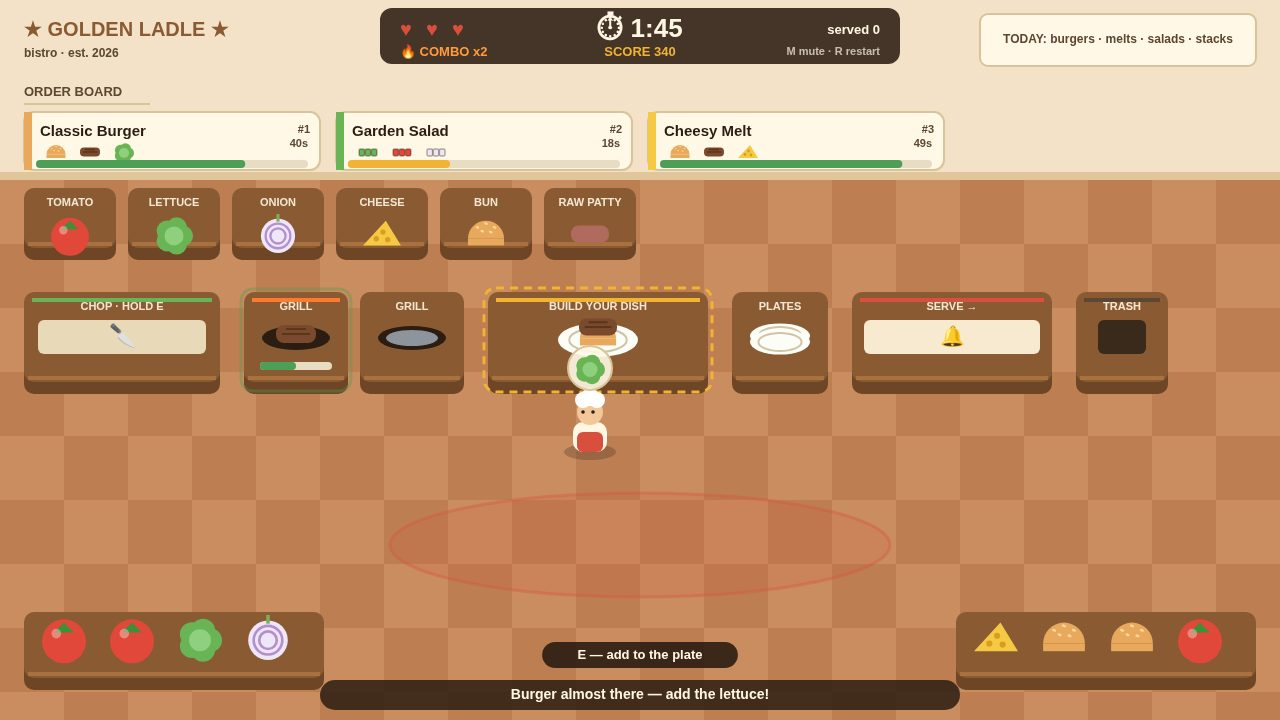
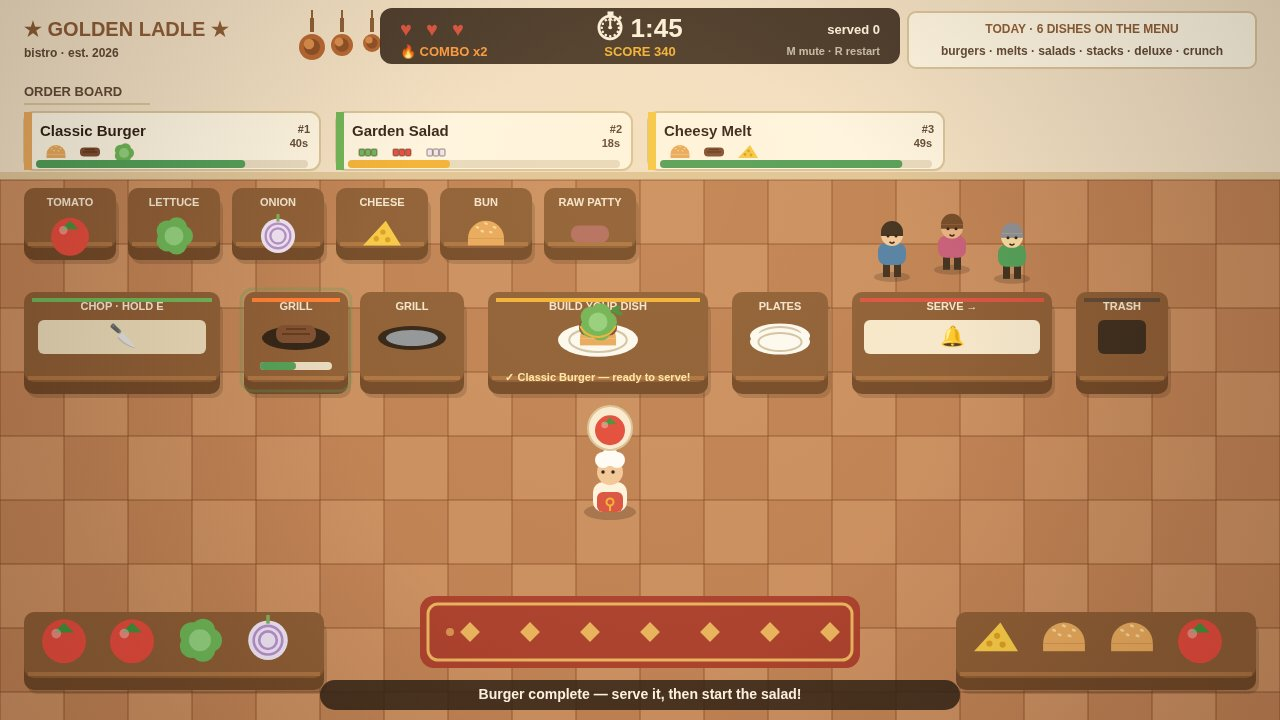
Visual richness + menu depth: customers at the pass, lighting, 6 recipes
- Customers waiting at the serving pass: three regulars whose mood
  follows the most urgent ticket (smiles, hopeful, impatient with
  sweat drop and '!' when a ticket is about to walk out)
- Warm kitchen light: radial glow from above plus a soft vignette;
  floor grout lines, soft shadows under every station
- Woven rug with a gold border and diamond pattern replaces the faint
  ellipse; copper pans hang on the wall; menu board now lists all six
  dishes
- Two new recipes: Golden Deluxe (5-item, 160 base) and Crunch Burger
  (140 base); order board, tickets and serving all pick them up
  generically, spawn stays even across all six
- Finished plates get a parsley + gold-drizzle garnish; the chef's
  apron carries the golden ladle mark; the ready-to-serve line is now
  legible gold on the counter
- Screenshots re-staged so the chef never covers the plate or the
  bell; rush shot features the new Golden Deluxe ticket
- Screenshots regenerated from the game's own code (all <100 KiB);
  main.ts output verified deterministic across two runs

diff --git a/game/src/render.js b/game/src/render.js
@@ -134,6 +134,14 @@ function drawPlate(ctx, x, y, items, s) {
   layers.forEach((item, i) => {
     drawIngredient(ctx, item, 0, -6 - i * 7, s * 0.95);
   });
+  // A full-looking plate gets a garnish: parsley sprig + a gold drizzle.
+  if (layers.length >= 3) {
+    ctx.strokeStyle = '#f2b234'; ctx.lineWidth = 2;
+    ctx.beginPath(); ctx.arc(0, -6 - layers.length * 7 + 4, s * 0.5, 0.15 * Math.PI, 0.85 * Math.PI); ctx.stroke();
+    ctx.fillStyle = '#3f8f3a';
+    ctx.beginPath(); ctx.ellipse(s * 0.45, -10 - layers.length * 7, 5, 2.5, -0.5, 0, Math.PI * 2); ctx.fill();
+    ctx.beginPath(); ctx.ellipse(s * 0.52, -6 - layers.length * 7, 4, 2, 0.4, 0, Math.PI * 2); ctx.fill();
+  }
   ctx.restore();
 }
 
@@ -152,6 +160,10 @@ function drawChef(ctx, chef, carrying) {
   ctx.fillStyle = '#d94f3d';
   roundRect(ctx, -13, 2 + bob, 26, 20, 6);
   ctx.fill();
+  // The golden ladle on the apron — the bistro's mark.
+  ctx.strokeStyle = '#f2b234'; ctx.lineWidth = 2;
+  ctx.beginPath(); ctx.arc(0, 12 + bob, 3.5, 0, Math.PI * 2); ctx.stroke();
+  ctx.beginPath(); ctx.moveTo(0, 15.5 + bob); ctx.lineTo(0, 21 + bob); ctx.stroke();
   // Head and toque.
   ctx.fillStyle = '#f2c89b';
   ctx.beginPath(); ctx.arc(0, -18 + bob, 13, 0, Math.PI * 2); ctx.fill();
@@ -179,6 +191,10 @@ function drawChef(ctx, chef, carrying) {
 
 // --- stations --------------------------------------------------------------
 function drawStationBase(ctx, s, label, accent) {
+  // Soft drop shadow so the counter sits on the floor, not on top of it.
+  ctx.fillStyle = 'rgba(43,29,18,0.18)';
+  roundRect(ctx, s.x + 3, s.y + 10, s.w, s.h, 10);
+  ctx.fill();
   ctx.fillStyle = COLORS.counterSide;
   roundRect(ctx, s.x, s.y + 6, s.w, s.h, 10);
   ctx.fill();
@@ -243,7 +259,7 @@ export function render(ctx, game, input) {
   ctx.fillRect(0, 0, VIEW_W, 180);
   ctx.fillStyle = COLORS.wallTrim;
   ctx.fillRect(0, 172, VIEW_W, 8);
-  // Floor checker.
+  // Floor checker with grout lines, so the tiles read as tiles.
   const tile = 64;
   for (let ty = 180; ty < VIEW_H; ty += tile) {
     for (let tx = 0; tx < VIEW_W; tx += tile) {
@@ -252,16 +268,41 @@ export function render(ctx, game, input) {
       ctx.fillRect(tx, ty, tile, tile);
     }
   }
+  ctx.strokeStyle = 'rgba(120,66,32,0.35)';
+  ctx.lineWidth = 2;
+  for (let ty = 180; ty <= VIEW_H; ty += tile) {
+    ctx.beginPath(); ctx.moveTo(0, ty); ctx.lineTo(VIEW_W, ty); ctx.stroke();
+  }
+  for (let tx = 0; tx <= VIEW_W; tx += tile) {
+    ctx.beginPath(); ctx.moveTo(tx, 180); ctx.lineTo(tx, VIEW_H); ctx.stroke();
+  }
   // Wall decor: framed menu and hanging pans.
   text(ctx, '★ GOLDEN LADLE ★', 24, 30, 20, '#8a5a33', '800');
   text(ctx, 'bistro · est. 2026', 24, 54, 12, COLORS.inkSoft, '600');
+  // Three copper pans hanging from hooks between the title and the HUD.
+  for (let i = 0; i < 3; i++) {
+    const px = 312 + i * 30;
+    const pr = 13 - i * 2;
+    // Hook and handle run above the pan, so it reads as hanging cookware.
+    ctx.strokeStyle = '#8a5a33'; ctx.lineWidth = 2;
+    ctx.beginPath(); ctx.moveTo(px, 10); ctx.lineTo(px, 20); ctx.stroke();
+    ctx.fillStyle = '#8a5a33';
+    ctx.fillRect(px - 2, 18, 4, 14);
+    ctx.fillStyle = '#b4632e';
+    ctx.beginPath(); ctx.arc(px, 34 + pr, pr, 0, Math.PI * 2); ctx.fill();
+    ctx.fillStyle = '#8a4a22';
+    ctx.beginPath(); ctx.arc(px, 34 + pr, pr * 0.62, 0, Math.PI * 2); ctx.fill();
+    ctx.fillStyle = '#d98a4a';
+    ctx.beginPath(); ctx.arc(px - 3, 31 + pr, pr * 0.4, 0, Math.PI * 2); ctx.fill();
+  }
   ctx.fillStyle = '#fff8e6';
-  roundRect(ctx, 980, 14, 276, 52, 8);
+  roundRect(ctx, 908, 12, 348, 56, 8);
   ctx.fill();
   ctx.strokeStyle = '#d9c49a'; ctx.lineWidth = 2;
-  roundRect(ctx, 980, 14, 276, 52, 8);
+  roundRect(ctx, 908, 12, 348, 56, 8);
   ctx.stroke();
-  text(ctx, 'TODAY: burgers · melts · salads · stacks', 1118, 40, 12, COLORS.inkSoft, '700', 'center');
+  text(ctx, 'TODAY · 6 DISHES ON THE MENU', 1082, 30, 12, '#8a5a33', '800', 'center');
+  text(ctx, 'burgers · melts · salads · stacks · deluxe · crunch', 1082, 52, 12, COLORS.inkSoft, '700', 'center');
 
   // --- HUD bar ------------------------------------------------------------
   ctx.fillStyle = 'rgba(43,29,18,0.88)';
@@ -285,11 +326,26 @@ export function render(ctx, game, input) {
   text(ctx, `served ${board.served}`, 880, 30, 13, '#fff6e3', '700', 'right');
   text(ctx, 'M mute · R restart', 880, 52, 11, 'rgba(255,246,227,0.7)', '600', 'right');
 
-  // A warm rug in the middle of the floor, so the open space reads as a room.
-  ctx.fillStyle = 'rgba(217,79,61,0.16)';
-  ctx.beginPath(); ctx.ellipse(640, 545, 250, 52, 0, 0, Math.PI * 2); ctx.fill();
-  ctx.strokeStyle = 'rgba(217,79,61,0.35)'; ctx.lineWidth = 3;
-  ctx.beginPath(); ctx.ellipse(640, 545, 250, 52, 0, 0, Math.PI * 2); ctx.stroke();
+  // A woven rug in the middle of the floor, so the open space reads as a room.
+  ctx.fillStyle = '#a83c2a';
+  roundRect(ctx, 420, 596, 440, 72, 14);
+  ctx.fill();
+  ctx.strokeStyle = '#e8b25c'; ctx.lineWidth = 3;
+  roundRect(ctx, 428, 604, 424, 56, 10);
+  ctx.stroke();
+  ctx.fillStyle = '#e8b25c';
+  for (let i = 0; i < 7; i++) {
+    const dx = 470 + i * 60;
+    ctx.save();
+    ctx.translate(dx, 632);
+    ctx.rotate(Math.PI / 4);
+    ctx.fillRect(-7, -7, 14, 14);
+    ctx.restore();
+  }
+  ctx.fillStyle = 'rgba(232,178,92,0.7)';
+  for (const dx of [450, 830]) {
+    ctx.beginPath(); ctx.arc(dx, 632, 4, 0, Math.PI * 2); ctx.fill();
+  }
 
   // --- order board ---------------------------------------------------------
   text(ctx, 'ORDER BOARD', 24, 92, 13, COLORS.inkSoft, '800');
@@ -367,7 +423,7 @@ export function render(ctx, game, input) {
   if (kitchen.assemblyPlate) {
     drawPlate(ctx, STATIONS.assembly.x + STATIONS.assembly.w / 2, STATIONS.assembly.y + 48, kitchen.assemblyPlate.items, 40);
     const match = board.matchTicket(kitchen.assemblyPlate.items);
-    if (match) text(ctx, `✓ ${match.recipe.name} — ready to serve!`, STATIONS.assembly.x + STATIONS.assembly.w / 2, STATIONS.assembly.y + 86, 11, '#2b7a2e', '800', 'center');
+    if (match) text(ctx, `✓ ${match.recipe.name} — ready to serve!`, STATIONS.assembly.x + STATIONS.assembly.w / 2, STATIONS.assembly.y + 86, 11, '#ffe9a8', '800', 'center');
   } else {
     ctx.fillStyle = 'rgba(255,246,227,0.75)';
     ctx.font = '13px sans-serif';
@@ -400,6 +456,56 @@ export function render(ctx, game, input) {
       drawIngredient(ctx, k, counter.x + 40 + i * 68, counter.y + 26, 44);
     });
   }
+
+  // Customers waiting at the pass, above the serving window — the bistro's
+  // regulars. Their mood follows the most urgent ticket on the board.
+  const waiting = board.tickets.length > 0;
+  const minRemaining = board.tickets.length
+    ? Math.min(...board.tickets.map((t) => 1 - t.age / t.patience))
+    : 1;
+  const mood = minRemaining < 0.22 ? 'impatient' : waiting ? 'hungry' : 'happy';
+  const regulars = [
+    { x: 892, y: 252, skin: '#f2c89b', hair: '#3a2a1c', shirt: '#4d7ea8', bob: 0 },
+    { x: 952, y: 244, skin: '#e8b184', hair: '#6e4525', shirt: '#c65a7a', bob: 1.3 },
+    { x: 1012, y: 252, skin: '#f7d9a0', hair: '#8a8d94', shirt: '#4d9e57', bob: 2.6 },
+  ];
+  regulars.forEach((c, i) => {
+    const bounce = mood === 'impatient' && i === 0 ? Math.abs(Math.sin(game.nowMs / 240 + c.bob)) * 3 : Math.sin(game.nowMs / 500 + c.bob) * 1;
+    const cy = c.y - bounce;
+    ctx.save();
+    ctx.translate(c.x, cy);
+    ctx.fillStyle = 'rgba(43,29,18,0.22)';
+    ctx.beginPath(); ctx.ellipse(0, 26, 18, 5, 0, 0, Math.PI * 2); ctx.fill();
+    // Legs and body, facing the kitchen (we see their faces).
+    ctx.fillStyle = '#3a2a1c';
+    ctx.fillRect(-9, 12, 7, 14);
+    ctx.fillRect(2, 12, 7, 14);
+    ctx.fillStyle = c.shirt;
+    roundRect(ctx, -14, -8, 28, 22, 8);
+    ctx.fill();
+    // Head, hair, eyes and mouth.
+    ctx.fillStyle = c.skin;
+    ctx.beginPath(); ctx.arc(0, -16, 11, 0, Math.PI * 2); ctx.fill();
+    ctx.fillStyle = c.hair;
+    ctx.beginPath(); ctx.arc(0, -19, 11, Math.PI, 0); ctx.fill();
+    ctx.fillRect(-11, -19, 22, 4);
+    ctx.fillStyle = '#2b1d12';
+    ctx.beginPath(); ctx.arc(-4, -15, 1.5, 0, Math.PI * 2); ctx.fill();
+    ctx.beginPath(); ctx.arc(4, -15, 1.5, 0, Math.PI * 2); ctx.fill();
+    ctx.strokeStyle = '#2b1d12'; ctx.lineWidth = 1.5;
+    ctx.beginPath();
+    if (mood === 'happy') ctx.arc(0, -12, 4, 0.15 * Math.PI, 0.85 * Math.PI);
+    else if (mood === 'impatient') ctx.arc(0, -7, 4, 1.15 * Math.PI, 1.85 * Math.PI);
+    else ctx.arc(0, -11, 3, 0.2 * Math.PI, 0.8 * Math.PI); // hungry: a hopeful smile
+    ctx.stroke();
+    // The impatient one taps and frets: a sweat drop and an exclamation.
+    if (mood === 'impatient' && i === 0) {
+      ctx.fillStyle = '#7fb8d9';
+      ctx.beginPath(); ctx.arc(12, -24, 2.5, 0, Math.PI * 2); ctx.fill();
+      text(ctx, '!', 20, -30, 16, '#d94f3d', '800', 'center');
+    }
+    ctx.restore();
+  });
 
   // Steam wisps.
   for (const s of game.steam) {
@@ -451,6 +557,19 @@ export function render(ctx, game, input) {
     ctx.fill();
     text(ctx, game.message, VIEW_W / 2, VIEW_H - 25, 14, '#fff6e3', '600', 'center');
   }
+
+  // Warm kitchen light from above and a soft vignette, so the room glows
+  // instead of lying flat.
+  const glow = ctx.createRadialGradient(640, 170, 60, 640, 300, 620);
+  glow.addColorStop(0, 'rgba(255,205,130,0.12)');
+  glow.addColorStop(1, 'rgba(255,205,130,0)');
+  ctx.fillStyle = glow;
+  ctx.fillRect(0, 0, VIEW_W, VIEW_H);
+  const vig = ctx.createRadialGradient(640, 360, 300, 640, 360, 780);
+  vig.addColorStop(0, 'rgba(43,29,18,0)');
+  vig.addColorStop(1, 'rgba(43,29,18,0.22)');
+  ctx.fillStyle = vig;
+  ctx.fillRect(0, 0, VIEW_W, VIEW_H);
 
   if (game.flash) {
     ctx.globalAlpha = Math.max(0, game.flash.life * 2);

diff --git a/game/src/shots.js b/game/src/shots.js
@@ -40,10 +40,10 @@ export function stageShot(game, name) {
     setTicket(game, 2, 'salad', 30, 48);
     setTicket(game, 3, 'melt', 6, 55);
     game.kitchen.stoves[0] = { item: 'patty', ms: 6000 };
-    game.kitchen.assemblyPlate = { items: ['bun', 'patty'] };
-    game.chef.x = 590; game.chef.y = 430; game.chef.dir = -1;
-    game.chef.pickItem('lettuce');
-    game.say('Burger almost there — add the lettuce!');
+    game.kitchen.assemblyPlate = { items: ['bun', 'patty', 'lettuce'] };
+    game.chef.x = 610; game.chef.y = 490; game.chef.dir = -1;
+    game.chef.pickItem('tomato');
+    game.say('Burger complete — serve it, then start the salad!');
   } else if (name === 'chop') {
     // Mid-chop: knife work on the board, ticket board and timer in frame.
     game.elapsed = 20;
@@ -53,7 +53,8 @@ export function stageShot(game, name) {
     setTicket(game, 2, 'burger', 20, 50);
     game.kitchen.startChop('tomato');
     game.kitchen.chopping.ms = 700;
-    game.chef.x = 120; game.chef.y = 430; game.chef.dir = -1;
+    game.kitchen.stoves[1] = { item: 'pattyRaw', ms: 3200 };
+    game.chef.x = 120; game.chef.y = 440; game.chef.dir = -1;
     game.say('Chopping tomato — hold E!');
   } else if (name === 'serve') {
     // A finished plate in hand at the window, ready to serve.
@@ -64,7 +65,7 @@ export function stageShot(game, name) {
     game.comboTimer = 15000;
     setTicket(game, 1, 'burger', 10, 50);
     setTicket(game, 2, 'stack', 26, 46);
-    game.chef.x = 950; game.chef.y = 430; game.chef.dir = -1;
+    game.chef.x = 960; game.chef.y = 480; game.chef.dir = -1;
     game.chef.pickPlate(['bun', 'patty', 'lettuce']);
     game.say('Classic Burger complete — serve it at the window!');
   } else {
@@ -77,12 +78,12 @@ export function stageShot(game, name) {
     setTicket(game, 1, 'salad', 42, 46);
     setTicket(game, 2, 'burger', 15, 44);
     setTicket(game, 3, 'stack', 30, 42);
-    setTicket(game, 4, 'melt', 5, 48);
+    setTicket(game, 4, 'deluxe', 5, 48);
     game.kitchen.stoves[0] = { item: 'pattyRaw', ms: 4500 };
     game.kitchen.stoves[1] = { item: 'patty', ms: 6000 };
-    game.kitchen.assemblyPlate = { items: ['lettuceChopped', 'tomatoChopped'] };
+    game.kitchen.assemblyPlate = { items: ['lettuceChopped', 'tomatoChopped', 'cheese'] };
     game.chef.x = 640; game.chef.y = 520; game.chef.dir = 1;
-    game.chef.pickItem('onionChopped');
+    game.chef.pickItem('patty');
     game.say('Rush hour! That salad ticket is about to walk out!');
   }
   // One real frame through the normal render path, then signal readiness.

diff --git a/game/src/config.js b/game/src/config.js
@@ -83,8 +83,22 @@ export const RECIPES = {
     base: 130,
     color: '#d94f3d',
   },
+  deluxe: {
+    name: 'Golden Deluxe',
+    short: 'Deluxe',
+    needs: ['bun', 'patty', 'cheese', 'lettuceChopped', 'tomatoChopped'],
+    base: 160,
+    color: '#f2b234',
+  },
+  crunch: {
+    name: 'Crunch Burger',
+    short: 'Crunch',
+    needs: ['bun', 'patty', 'onionChopped', 'lettuce'],
+    base: 140,
+    color: '#c98d5f',
+  },
 };
-export const RECIPE_IDS = ['burger', 'melt', 'salad', 'stack'];
+export const RECIPE_IDS = ['burger', 'melt', 'salad', 'stack', 'deluxe', 'crunch'];
 
 // Station rectangles (x, y, w, h) on the 1280x720 floor. The top strip is the
 // order board; the kitchen floor starts below it.

diff --git a/README.md b/README.md
@@ -7,8 +7,9 @@
 **Golden Ladle** — a tiny bistro, a big lunch rush. You are the only chef in a
 warm little kitchen: grab ingredients from the crates, chop veg on the board,
 grill patties on the stove (don't burn them), build each dish on a plate at
-the counter, and serve it at the window before its ticket runs out. Four
-recipes (Classic Burger, Cheesy Melt, Garden Salad, Veggie Stack), a 150-second
+the counter, and serve it at the window before its ticket runs out. Six
+recipes (Classic Burger, Cheesy Melt, Garden Salad, Veggie Stack, Golden
+Deluxe, Crunch Burger), a 150-second
 dinner shift, tips for fast serves, combos for chained serves, and three
 walk-outs ends the shift.
 
